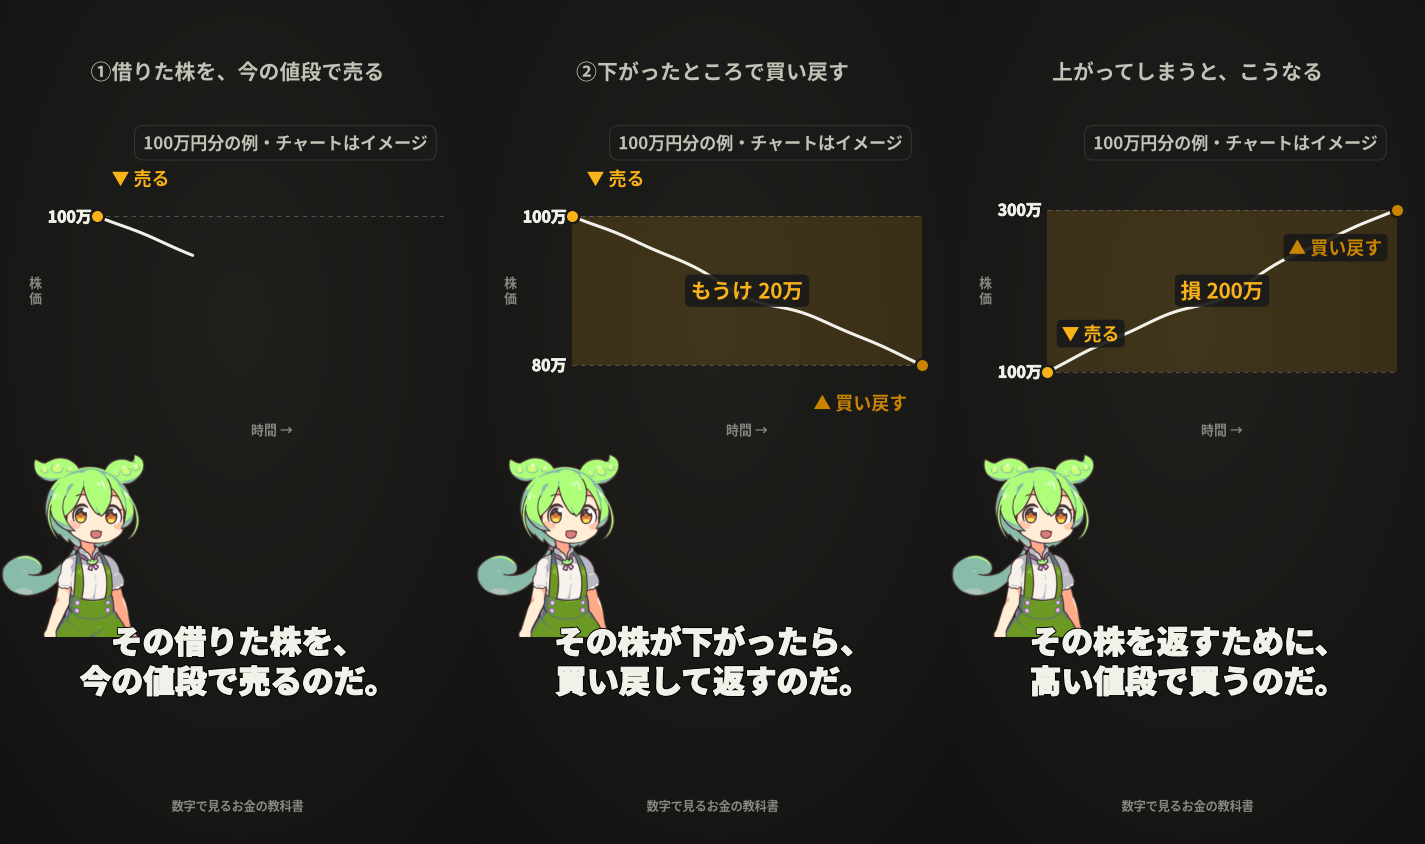
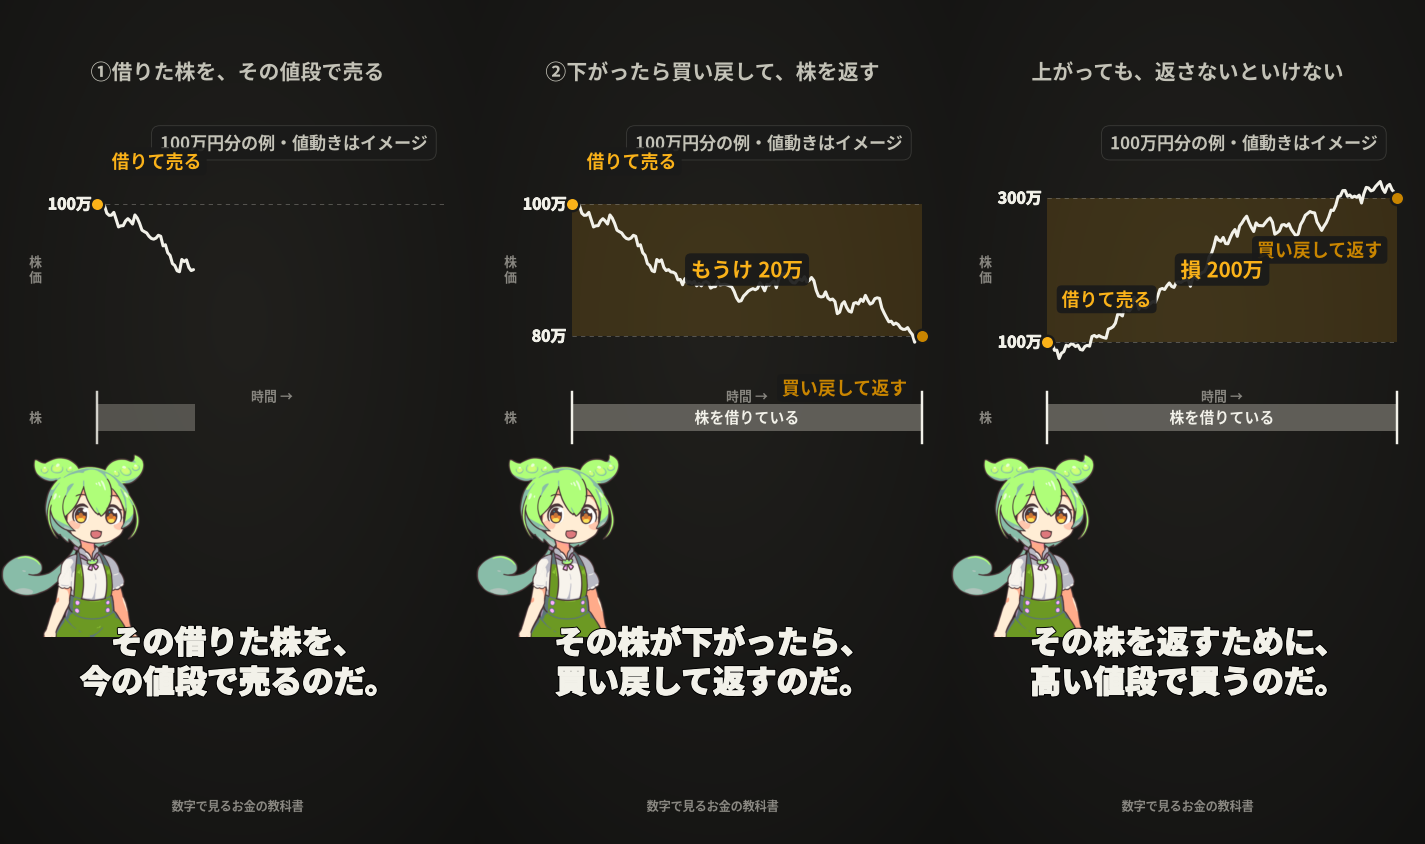
チャートに借り/返しの期間を追加し、値動きを本物のギザギザにする(ループ㊼-2)
ユーザー指摘:「借りて返している様子が全くないよね。売るのは売るんだけど
そのタイミングで借りて売ってるんでしょ?それを記載しないと」
「このチャートしかも偽物すぎるし。なんかもっと株価チャートみたいにギザギザしないの?」

1. 借り/返しが図にない問題
   空売りの本体は「借りて売る → 買い戻して返す」なのに、図には売買しか出ていなかった。
   - price_chart に borrow=(開始, 終了, ラベル) を追加。チャートの下に
     「株を借りている期間」の帯を出し、両端に縦棒で「いつ借りて、いつ返したか」を示す
   - 売買の点のラベルを動詞に変更:「売る」→「借りて売る」、「買い戻す」→「買い戻して返す」

2. チャートが偽物問題
   price_path が正弦波2本の重ね合わせで、滑らかすぎた。
   ブラウン橋(乱歩を作ってから両端を目標値に合わせる)に置き換え。
   始点と終点は厳密に固定したまま、途中は実際の株価のようにギザギザになる
   (150点・方向転換74回)。seedを固定しているので毎回同じ形が出る。

figure-forms.md にどちらも明文化。

Claude-Session: https://claude.ai/code/session_01H25d6cgY8iGwuwz8Ed5jdC

diff --git a/production/scenes_common.py b/production/scenes_common.py
@@ -187,38 +187,47 @@ def chips(question: str, options: list, badge: str, brand: str, q_fs: int = 48):
 # 横=時間、縦=株価。売買のタイミングはチャート上の点として打つ。
 # 抽象的なトークンや棒グラフに置き換えない(視聴者の心的モデルはチャートである)。
 
-def price_path(start: float, end: float, n: int = 56, wiggle: float = 1.0):
-    """始点と終点を厳密に固定したまま、途中だけ揺らした株価の道筋。
+def price_path(start: float, end: float, n: int = 150, vol: float = 0.30, seed: int = 11):
+    """本物の値動きに見える株価の道筋(ブラウン橋)。
 
-    数値の根拠になるのは始点と終点だけ(verify.pyで検算する)。
-    途中の形はイメージなので、バッジに「イメージ」と明記して使う。
+    正弦波を重ねただけでは滑らかすぎて「偽物のチャート」になる(ユーザー指摘)。
+    乱歩を作ってから両端を start/end にぴったり合わせる(ブラウン橋)ことで、
+    **始点と終点は厳密に固定したまま、途中は実際の株価のようにギザギザ**になる。
+    seed を固定しているので毎回同じ形が出る(検証のたびに絵が変わらない)。
     """
-    import math
-    pts = []
-    span = abs(end - start)
-    for i in range(n):
-        u = i / (n - 1)
-        base = start + (end - start) * u
-        w = (math.sin(u * 9.4) * 0.035 + math.sin(u * 21.7) * 0.015) * span * wiggle
-        w *= math.sin(math.pi * u)          # 両端では揺れを0にする
-        pts.append(base + w)
-    return pts
+    import random
+    rng = random.Random(seed)
+    walk, acc = [], 0.0
+    for _ in range(n):
+        acc += rng.gauss(0, 1)
+        walk.append(acc)
+    # 両端を0に固定する(ブラウン橋)
+    w0, wn = walk[0], walk[-1]
+    bridged = [w - (w0 + (wn - w0) * i / (n - 1)) for i, w in enumerate(walk)]
+    scale = max(abs(x) for x in bridged) or 1.0
+    span = abs(end - start) or abs(start) * 0.25
+    amp = span * vol
+    return [start + (end - start) * (i / (n - 1)) + bridged[i] / scale * amp
+            for i in range(n)]
 
 
 def price_chart(prices, marks, band=None, title="", badge="", brand="",
-                ymin=None, ymax=None, unit="万", reveal=1.0):
+                ymin=None, ymax=None, unit="万", reveal=1.0, borrow=None):
     """株価チャートのシーン(ループ㊼)。
 
     prices : 株価の列(左から右へ時間)
     marks  : [(位置0〜1, ラベル, 種類)]。種類は "sell"(売る) / "buy"(買い戻す)
     band   : (価格A, 価格B, ラベル) 2つの価格のあいだを塗り、差額を示す
     reveal : 0〜1。線をどこまで描くか(ユニットごとに伸ばして見せる)
+    borrow : (開始0〜1, 終了0〜1, ラベル) 株を借りている期間をチャートの下に帯で出す。
+             空売りの本体は「借りて売る → 買い戻して返す」なので、これがないと図が成立しない
 
     実際の取引画面と同じ作りにする: 価格の目盛りは左、売買の点はチャート上、
     ラベルには背景を敷いて価格の線と食い合わせない。
     """
     X0, X1 = 0.205, 0.940
-    Y0, Y1 = 0.520, 0.790
+    Y0, Y1 = 0.560, 0.800
+    Y_BORROW = 0.505          # 「株を借りている期間」の帯
     lo = ymin if ymin is not None else min(prices)
     hi = ymax if ymax is not None else max(prices)
     pad = (hi - lo) * 0.14 or 1.0
@@ -282,13 +291,35 @@ def price_chart(prices, marks, band=None, title="", badge="", brand="",
                                       markersize=22, color=color, markeredgecolor=SURFACE,
                                       markeredgewidth=4, linestyle="none", zorder=6))
             right = u <= 0.5
-            chip(fig, x + (0.030 if right else -0.030), y + (0.045 if kind == "sell" else -0.045),
+            chip(fig, x + (0.030 if right else -0.030),
+                 y + (0.050 if kind == "sell" else -0.062),
                  lab, color, 29, ha="left" if right else "right")
 
         # 差額のラベル(帯の中央。背景を敷いて線と分離する)
         if band and a_band > 0:
             va_, vb, lab = band
             chip(fig, (X0 + X1) / 2, (py(va_) + py(vb)) / 2, lab, EMPH, 34)
+
+        # 株を借りている期間(空売りの本体)。売った瞬間に借り、買い戻した瞬間に返す
+        if borrow:
+            bu0, bu1, blab = borrow
+            n_ratio = clamp01(reveal)
+            bx0, bx1 = px(bu0), px(min(bu1, n_ratio))
+            if bx1 > bx0:
+                a_b = clamp01(reveal * 3 - bu0 * 3)
+                fig.patches.append(Rectangle((bx0, Y_BORROW - 0.016), bx1 - bx0, 0.032,
+                                             transform=fig.transFigure, facecolor=MUTED_BAR,
+                                             edgecolor="none", alpha=0.9 * a_b, zorder=3))
+                # 両端の縦棒(いつ借りて、いつ返したか)
+                for bx in ((bx0,) if n_ratio < bu1 else (bx0, bx1)):
+                    fig.add_artist(plt.Line2D([bx, bx], [Y_BORROW - 0.030, Y_BORROW + 0.030],
+                                              transform=fig.transFigure, color=INK,
+                                              linewidth=4, alpha=a_b, zorder=4))
+                if bx1 - bx0 > 0.30:      # 帯が十分に伸びてからラベルを出す
+                    fig.text((bx0 + bx1) / 2, Y_BORROW, blab, ha="center", va="center",
+                             color=INK, fontsize=24, alpha=a_b, zorder=5)
+            fig.text(0.075, Y_BORROW, "株", ha="center", va="center",
+                     color=MUTED, fontsize=21)
 
         fig.text(0.075, (Y0 + Y1) / 2, "株\n価", ha="center", va="center",
                  color=MUTED, fontsize=21, linespacing=1.2)

diff --git a/docs/research/figure-forms.md b/docs/research/figure-forms.md
@@ -82,8 +82,13 @@
 - 横=時間、縦=株価。価格の目盛りは**左**(実際の取引画面と同じ)
 - 売買は線上の点(●)+ 背景を敷いたラベル。線と文字を食い合わせない
 - 2つの価格のあいだを帯で塗り、差額(もうけ/損)を1つのチップで示す
-- `price_path(start, end)` は**始点と終点だけを厳密に固定**し、途中は決定的に揺らす。
-  途中の形はイメージなのでバッジに「チャートはイメージ」と明記する
+- `price_path(start, end)` は**ブラウン橋**。乱歩を作ってから両端を start/end に合わせるので、
+  **始点と終点は厳密なまま、途中は本物の株価のようにギザギザ**になる。seedを固定して毎回同じ形にする。
+  正弦波を重ねただけの滑らかな線は「偽物のチャート」に見える(ユーザー指摘)
+- `borrow=(開始, 終了, ラベル)` で**株を借りている期間**をチャートの下に帯で出す。
+  空売りの本体は「**借りて**売る → 買い戻して**返す**」であり、
+  借りと返しが図にないと空売りの図として成立しない(ユーザー指摘)
+- 売買の点のラベルは動詞で書く:「借りて売る」「買い戻して返す」。「売る」「買う」だけにしない
 - `reveal` で線を伸ばしながら見せ、同じチャートの上に説明を積む
 
 同じチャートを**利益の場合と損失の場合の両方**に使うと、向きが逆になるだけで
